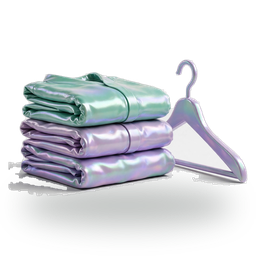
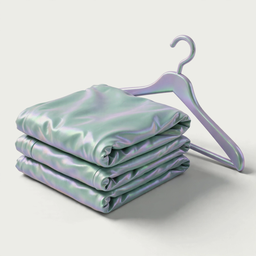
Stop cutting the category pictures out at all
Every artefact we chased — torn shadow edges, bitten highlights, notched
roofs — came from separating the object from its paper. The new renders
don't need it: their background is clean white and the object with its
shadow sits well inside the frame, so the paper is simply repainted in the
tile's colour and the picture used whole. Nothing is masked, so nothing can
be masked wrong, and the shadow is the one the renderer drew.

The slot grows to fit, since the object now occupies about seventy percent
of its frame rather than filling it.

Services still holds the old cut-out roller; it will be swapped when its
render is available.

diff --git a/frontend/src/styles.css b/frontend/src/styles.css
@@ -231,12 +231,15 @@ button{ border:none; background:none; font-family:inherit; cursor:pointer; user-
    обрезает. Так предмет читается даже в 126 пикселях ширины, а обрез
    создаёт ощущение, что за плиткой есть продолжение. */
 .cat-tile-2row-glyph{
-  position:absolute; right:-8px; bottom:-13px; width:88px; height:88px;
+  position:absolute; right:-10px; bottom:-16px; width:104px; height:104px;
   color:var(--primary); z-index:0; pointer-events:none;
 }
 /* иконка — запасной вариант, поэтому приглушена; у картинки своя подача */
 .cat-tile-2row-glyph svg{ width:52%; height:52%; margin:24%; display:block; opacity:.32; }
-.cat-art{ width:100%; height:100%; object-fit:contain; display:block; }
+/* Фон картинок перекрашен в цвет плитки, поэтому они не вырезаны и стыка
+   не видно: настоящая тень из рендера остаётся на месте, а рваных краёв,
+   которые давало вырезание, больше нет. */
+.cat-art{ width:100%; height:100%; object-fit:cover; display:block; }
 
 
 
@@ -311,7 +314,7 @@ button{ border:none; background:none; font-family:inherit; cursor:pointer; user-
   font-size:12.5px; font-weight:700; color:var(--ink); line-height:1.25;
 }
 .cats-img{
-  position:absolute; right:3px; bottom:2px; width:64px; height:64px;
+  position:absolute; right:-6px; bottom:-8px; width:86px; height:86px;
   color:var(--primary); z-index:0; pointer-events:none;
 }
 .cats-img svg{ width:52%; height:52%; margin:24%; display:block; opacity:.32; }
@@ -345,7 +348,7 @@ button{ border:none; background:none; font-family:inherit; cursor:pointer; user-
   font-size:12.5px; font-weight:700; color:var(--ink); line-height:1.25;
 }
 .post-cat-img{
-  position:absolute; right:3px; bottom:2px; width:64px; height:64px;
+  position:absolute; right:-6px; bottom:-8px; width:86px; height:86px;
   color:var(--primary); z-index:0; pointer-events:none;
 }
 .post-cat-img svg{ width:52%; height:52%; margin:24%; display:block; opacity:.32; }
@@ -1149,7 +1152,7 @@ button{ border:none; background:none; font-family:inherit; cursor:pointer; user-
     padding:11px 62px 11px 14px;
   }
   .cat-tile-2row-label{ font-size:13.5px; white-space:normal; }
-  .cat-tile-2row-glyph{ width:104px; height:104px; right:-8px; bottom:-16px; }
+  .cat-tile-2row-glyph{ width:116px; height:116px; right:-10px; bottom:-18px; }
 
   /* Лента: пять в ряд. Карточки без белой подложки — у Avito фото
      со скруглением, а текст лежит прямо на фоне страницы: так сетка
